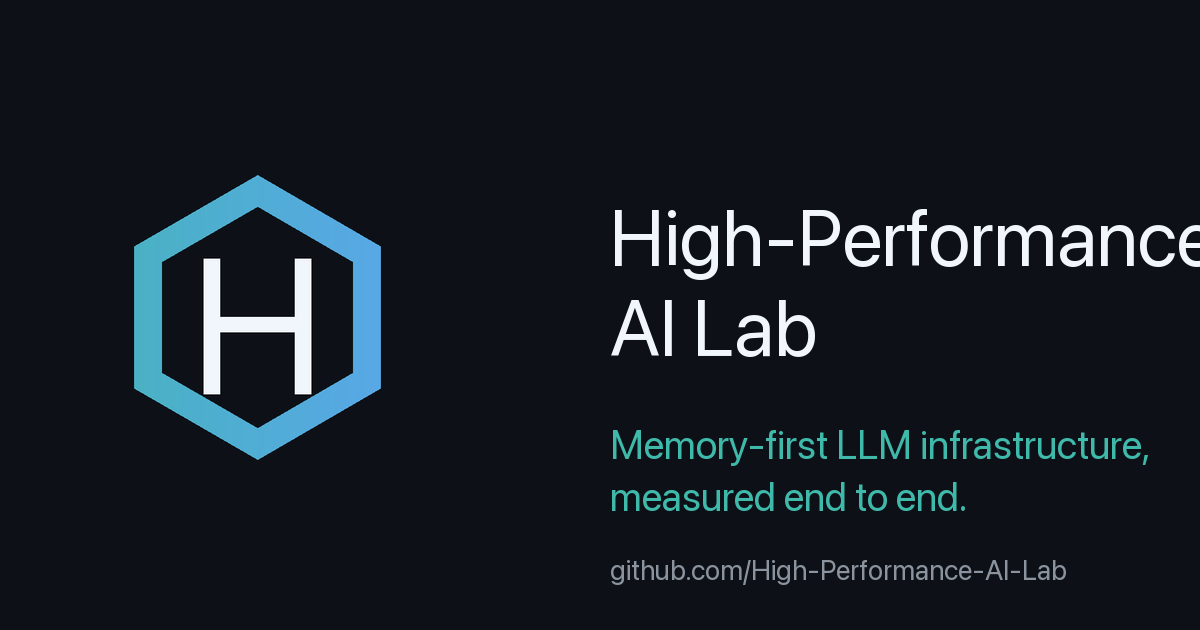
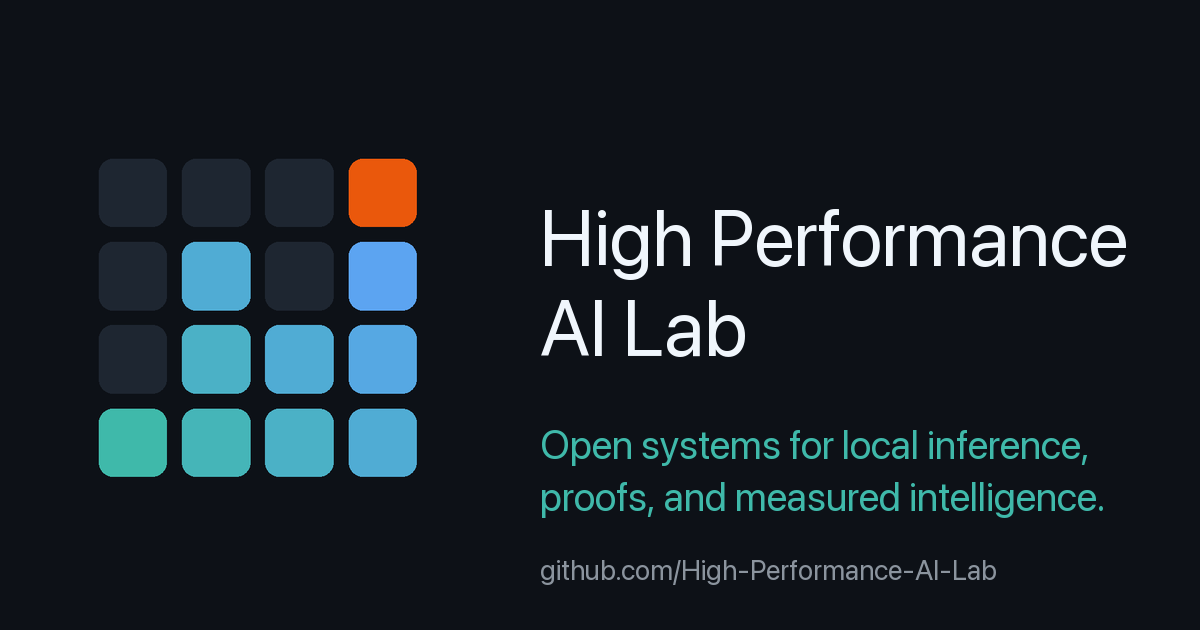
org: redesign the mark — a measured series in memory pages
Replace the hex-H with a mark that tells the lab's story: a 4x4 grid of
memory pages where the lit pages climb as a measured benchmark series
(1, 3, 2, 4 — dip included), and the oxide page top right is the decode
head writing the next token. The ramp keeps the on-dark lifts of the
website's teal and cobalt; the head brings in the site's primary oxide.

Also: card titles the public name "High Performance AI Lab" (hyphens
stay in the slug/URL only), the title no longer clips the right edge,
the tagline now spans the full lab spectrum (inference, proofs,
measured intelligence — the site description line), the README documents
the color mapping to the site palette, and the stale pre-hex
org-logo-card.png is removed.

diff --git a/scripts/generate_org_logo.py b/scripts/generate_org_logo.py
@@ -6,18 +6,26 @@ Two deterministic outputs, no randomness, no external inputs:
 - assets/org-logo.png          1024x1024 organization avatar
 - assets/org-social-card.png   1200x630 social preview for this repository
 
-The mark: a pointy-top hexagon ring with a horizontal teal -> blue gradient
-(a chip/lattice outline) around a bold H. Everything sits inside the
-circle-mask safe area and stays legible down to ~40px avatars.
-assets/org-logo.svg is the hand-maintained vector twin of the same
-geometry; keep the three artifacts in sync.
+The mark: a 4x4 grid of rounded memory pages; the lit pages climb as a
+measured series (1, 3, 2, 4 — a real benchmark trace, dip included) in
+flat teal -> blue steps along the diagonal, the oxide page at the top
+right is the decode head writing the next token (the hot page), and the
+unlit pages stay dim. Everything sits inside the circle-mask safe area
+and stays legible down to ~32px avatars. assets/org-logo.svg is the
+hand-maintained vector twin of the same geometry; keep the three
+artifacts in sync.
+
+Color system: the ramp colors are the on-dark lifts of the website's
+palette (hpailab-site/src/styles/global.css) — teal #3fb9aa ~ site teal
+#0f766e, blue #62a0ff ~ site cobalt #2563eb — and the decode head is the
+site's primary accent oxide at its bright dark-surface value #ea580c.
+Neutrals are GitHub Primer dark, native to where these assets live.
 
     python3 scripts/generate_org_logo.py --check   # verify committed files
     python3 scripts/generate_org_logo.py           # regenerate
 """
 
 import argparse
-import math
 import sys
 from pathlib import Path
 
@@ -26,8 +34,10 @@ from PIL import Image, ImageDraw, ImageFont
 BG = (13, 17, 23)          # deep charcoal, matches the family cards
 TEAL = (63, 185, 170)
 BLUE = (98, 160, 255)
+OXIDE = (234, 88, 12)      # site primary accent, bright on-dark value
 FG = (240, 246, 252)       # near-white
-DIM = (139, 148, 158)      # muted grey
+DIM = (139, 148, 158)      # muted grey (card text)
+PAGE_DIM = (30, 38, 49)    # unlit memory page
 
 FONT_PATHS = [
     "/System/Library/Fonts/SFNS.ttf",
@@ -35,10 +45,11 @@ FONT_PATHS = [
     "/System/Library/Fonts/SUPPLEMENTARY/Arial Bold.ttf",
 ]
 
-HEX_R = 370        # hexagon circumradius (logo coordinates, 1024x1024)
-RING_W = 72        # hexagon ring stroke width
-H_SIZE = 500       # H glyph size
-H_Y_OFFSET = 12    # optical centering
+GRID_N = 4                 # pages per side
+CELL = 140                 # page size (logo coordinates, 1024x1024)
+GAP = 32                   # gap between pages
+RADIUS = 29                # page corner radius
+HEIGHTS = [1, 3, 2, 4]     # lit pages per column, left to right
 
 
 def font(size: int) -> ImageFont.FreeTypeFont:
@@ -52,53 +63,43 @@ def lerp(a, b, t):
     return tuple(round(a[i] + (b[i] - a[i]) * t) for i in range(3))
 
 
-def gradient_rgb(c1=TEAL, c2=BLUE, size: int = 1024) -> Image.Image:
-    img = Image.new("RGB", (size, size))
-    d = ImageDraw.Draw(img)
-    for i in range(size):
-        d.line([(i, 0), (i, size)], fill=lerp(c1, c2, i / (size - 1)))
-    return img
-
-
-def hex_points(cx: float, cy: float, r: float) -> list[tuple[float, float]]:
-    # pointy-top: one vertex straight up
-    return [(cx + r * math.cos(math.radians(60 * i - 90)),
-             cy + r * math.sin(math.radians(60 * i - 90))) for i in range(6)]
-
-
 def draw_mark(img: Image.Image, scale: float = 1.0) -> Image.Image:
-    """Hex ring + H, drawn centered onto `img` (RGBA compositing for the gradient)."""
+    """Memory-page grid with the lit measured series, centered onto `img`."""
     size = img.size[0]
-    grad = gradient_rgb(size=size)
-    r, w = HEX_R * scale, RING_W * scale
-    cx = cy = size / 2
-    ring = Image.new("L", (size, size), 0)
-    ImageDraw.Draw(ring).polygon(hex_points(cx, cy, r), outline=255, width=round(w))
-    layer = Image.new("RGBA", (size, size), (0, 0, 0, 0))
-    layer.paste(grad, (0, 0), ring)
-    img = Image.alpha_composite(img.convert("RGBA"), layer)
     d = ImageDraw.Draw(img)
-    d.text((cx, cy + H_Y_OFFSET * scale), "H",
-           font=font(max(8, round(H_SIZE * scale))), fill=FG + (255,), anchor="mm")
+    cell, gap = CELL * scale, GAP * scale
+    total = GRID_N * cell + (GRID_N - 1) * gap
+    x0 = y0 = (size - total) / 2
+    for c in range(GRID_N):
+        for r in range(GRID_N):        # r = 0 is the bottom row
+            x = x0 + c * (cell + gap)
+            y = y0 + (GRID_N - 1 - r) * (cell + gap)
+            if r >= HEIGHTS[c]:
+                color = PAGE_DIM
+            elif c == GRID_N - 1 and r == HEIGHTS[c] - 1:
+                color = OXIDE          # the decode head, the hot page
+            else:
+                color = lerp(TEAL, BLUE, (c + r) / (2 * (GRID_N - 1)))
+            d.rounded_rectangle([x, y, x + cell, y + cell],
+                                radius=RADIUS * scale, fill=color)
     return img
 
 
 def render_logo() -> Image.Image:
-    img = Image.new("RGB", (1024, 1024), BG)
-    return draw_mark(img).convert("RGB")
+    return draw_mark(Image.new("RGB", (1024, 1024), BG))
 
 
 def render_card() -> Image.Image:
     img = Image.new("RGB", (1200, 630), BG)
-    mark = draw_mark(Image.new("RGB", (1024, 1024), BG), scale=0.62)
+    mark = draw_mark(Image.new("RGB", (1024, 1024), BG), scale=0.78)
     mark = mark.resize((635, 635), Image.LANCZOS)
     img.paste(mark, (-60, 0))
     d = ImageDraw.Draw(img)
-    x = 610
-    d.text((x, 190), "High-Performance", font=font(78), fill=FG)
+    x = 540
+    d.text((x, 190), "High Performance", font=font(78), fill=FG)
     d.text((x, 280), "AI Lab", font=font(78), fill=FG)
-    d.text((x, 420), "Memory-first LLM infrastructure,", font=font(40), fill=TEAL)
-    d.text((x, 472), "measured end to end.", font=font(40), fill=TEAL)
+    d.text((x, 420), "Open systems for local inference,", font=font(40), fill=TEAL)
+    d.text((x, 472), "proofs, and measured intelligence.", font=font(40), fill=TEAL)
     d.text((x, 552), "github.com/High-Performance-AI-Lab", font=font(28), fill=DIM)
     return img
 

diff --git a/README.md b/README.md
@@ -11,7 +11,7 @@ own org-domain repository,
 
 | Path | What it is |
 |---|---|
-| `assets/org-logo.png` | The organization avatar (1024×1024). The mark — three ascending compute lanes under a rising trend line — sits entirely inside the circle-mask safe area. |
+| `assets/org-logo.png` | The organization avatar (1024×1024). The mark — a measured benchmark series lit across a 4×4 grid of memory pages, with the oxide decode head (the hot page) writing the next token top right — sits entirely inside the circle-mask safe area. |
 | `assets/org-logo.svg` | Hand-maintained vector twin of the logo geometry. |
 | `assets/org-social-card.png` | This repo's 1200×630 social preview. |
 | `profile/README.md` | The README GitHub renders on the organization homepage. |
@@ -36,9 +36,20 @@ generator's geometry when the mark changes.
 - **Org homepage README:** automatic once `profile/README.md` exists on the
   default branch and the repository is public.
 
-The color range (teal `#3fb9aa` through blue `#62a0ff` on charcoal
-`#0d1117`) is the family accent range shared by the social cards of the
-muser, kvpack, muser-console, and muser-book repositories.
+## Color system
+
+These assets live on GitHub's dark UI, so they use dark-surface values of
+the website palette (`hpailab-site/src/styles/global.css`):
+
+| Here (on charcoal `#0d1117`) | Website (on paper `#faf9f7`) | Role |
+|---|---|---|
+| teal `#3fb9aa` | `--teal` / `--accent-2` `#0f766e` | ramp start (same hue, lifted for dark) |
+| blue `#62a0ff` | `--cobalt` `#2563eb` | ramp end (same hue, lifted for dark) |
+| oxide `#ea580c` | `--accent` `#c2410c` / `--accent-bright` `#ea580c` | the decode head — the site's primary accent |
+| `#f0f6fc` / `#8b949e` | `--ink` / `--muted` | text neutrals (GitHub Primer dark) |
+
+The teal→blue range is also the accent range shared by the social cards
+of the muser, kvpack, muser-console, and muser-book repositories.
 
 ## License
 
